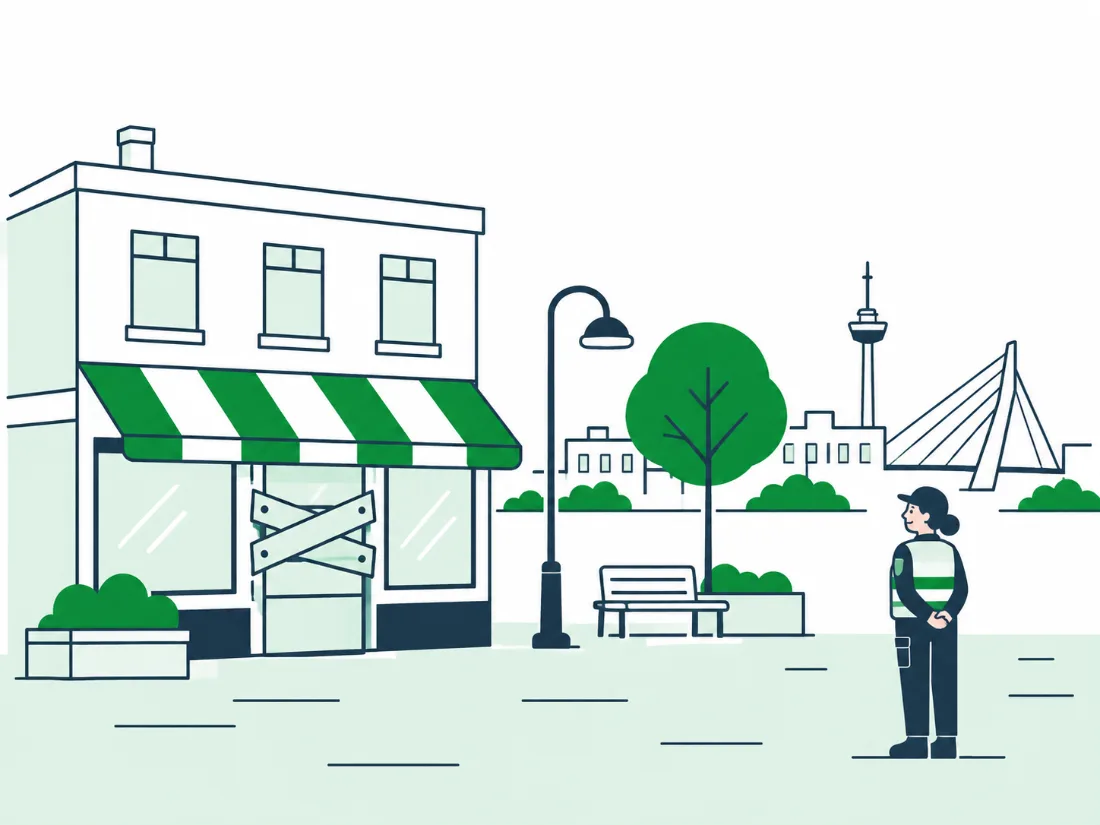
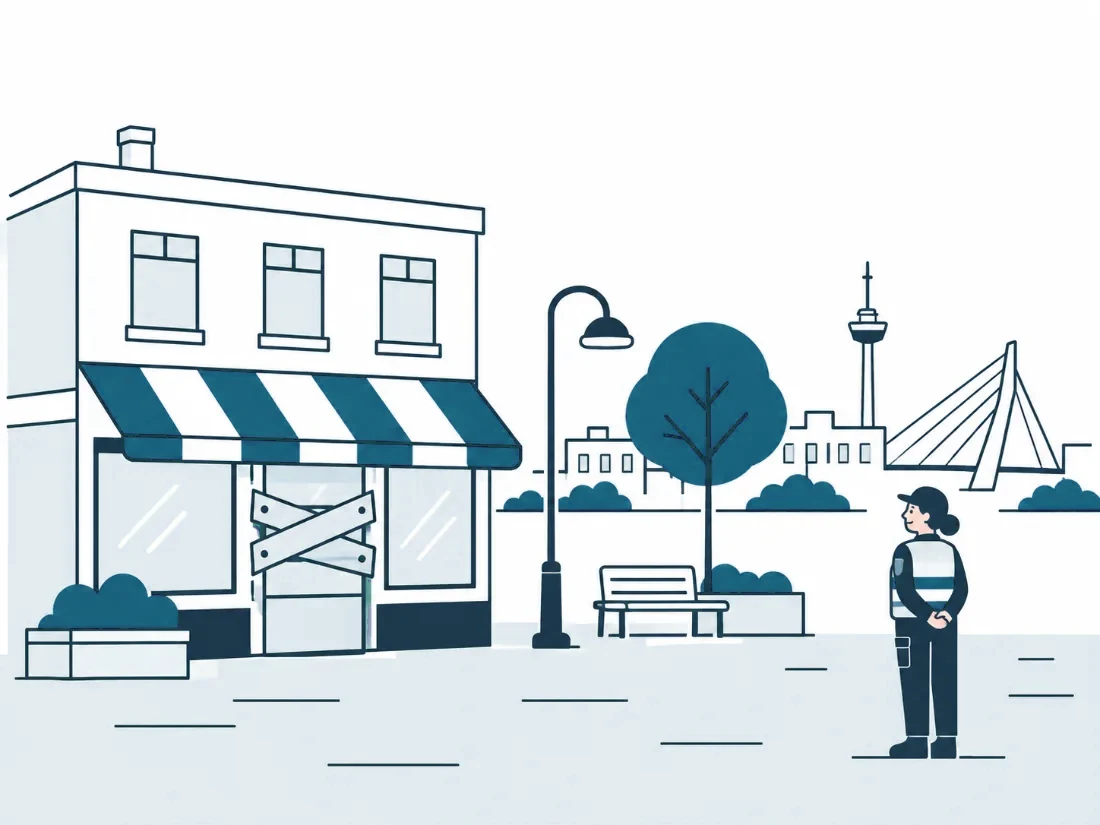
Huisstijl structureel: afbeeldingen herkleurd, groen-check (CI), herkleurscript, docs/huisstijl.md
Claude-Session: https://claude.ai/code/session_01HMaSQJ7cuYXUFEH6484HrS

diff --git a/site/index.html b/site/index.html
@@ -924,7 +924,7 @@ async function domStart(){try{const r=await fetch("data/domeinen/index.json");if
   document.title="Rechtsloods "+DT.naam+" — Loodst je door de rechtspraak, in gewone taal";const du=$("#dek-u");if(du)du.textContent=DT.uitspraken}
  const k=$("#domknop");k.onclick=e=>{e.stopPropagation();const m=$("#dommenu");if(m.hidden){domMenu();m.hidden=false;k.setAttribute("aria-expanded","true");const f=m.querySelector("button");f&&f.focus()}else domSluit()};
  document.addEventListener("click",e=>{if(!e.target.closest(".domkies"))domSluit()});document.addEventListener("keydown",e=>{if(e.key==="Escape"&&!$("#dommenu").hidden){domSluit();k.focus()}})}
-const KLEUR={parkeerbelasting:"#0F5C63",parkeerverbod:"#1C5A9E",vergunningen:"#A84A00",parkeernormen:"#6B4FA0","garages-privaat":"#5A7D2A","handhaving-privacy":"#8A6D1E"};
+const KLEUR={parkeerbelasting:"#0F5C63",parkeerverbod:"#1C5A9E",vergunningen:"#A84A00",parkeernormen:"#6B4FA0","garages-privaat":"#A23B72","handhaving-privacy":"#8A6D1E"};
 const LIJN={"hr-lijn":["l-hr","Vaste lijn: Hoge Raad of Raad van State"],"vaste-lijn":["l-vast","Vaste lijn: hoven en rechtbanken"],"losse-uitspraken":["l-los","Losse uitspraken"],"verdeeld":["l-verdeeld","Verdeeld"],"weinig":["l-weinig","Weinig rechtspraak"]};
 const WW={kosten2019:["Vóór kostenregel 1 juli 2019","Op 1 juli 2019 is de maatstaf voor de naheffingskosten verruimd. Oordelen over kosten van vóór die datum kunnen achterhaald zijn.","ECLI:NL:GHDHA:2025:225"],omgevingswet2024:["Vóór Omgevingswet 2024","Sinds 1 januari 2024 geldt de Omgevingswet: bestemmingsplannen zijn omgevingsplannen geworden. Toets of de redenering nog past."]};
 const BEGRIPPEN=[
@@ -1951,7 +1951,7 @@ domStart().then(()=>Promise.all(["meta.json","verrijkt.json","tekstindex.json","
  {let t;new MutationObserver(()=>{clearTimeout(t);t=setTimeout(()=>{wlWeg();wlMarkeer($("#view"))},40)}).observe($("#view"),{childList:true})}
  {const v=$("#view");new MutationObserver(()=>{if(LAB_VIEWS.test(document.body.dataset.view)&&v.firstElementChild&&v.firstElementChild.id!=="labregel"){v.insertAdjacentHTML("afterbegin",labRegel());v.querySelector("#labregel .linkknop").onclick=()=>go("over-contact")}}).observe(v,{childList:true})}
  if(false)try{const t=await fetch("data/_v3_voorbeeld.json");if(t.ok){(await t.json()).forEach(x=>{if(x&&x.ecli)V3TEST[x.ecli]=x})}}catch(x){}
- S.tax={};Object.entries(tax).forEach(([k,t])=>{S.tax[k]={label:t.label,rechtsgang:t.rechtsgang,uitleg:t.uitleg,concept:t.concept,sub:Object.fromEntries(Object.entries(t.sub||{}).map(([sk,sv])=>[sk,typeof sv==="string"?sv:(sv&&sv.label)||sk]))};if(t.kleur)KLEUR[k]=t.kleur;else if(!KLEUR[k])KLEUR[k]=["#0F5C63","#1C5A9E","#A84A00","#6B4FA0","#5A7D2A","#8A6D1E"][Object.keys(S.tax).length%6]});
+ S.tax={};Object.entries(tax).forEach(([k,t])=>{S.tax[k]={label:t.label,rechtsgang:t.rechtsgang,uitleg:t.uitleg,concept:t.concept,sub:Object.fromEntries(Object.entries(t.sub||{}).map(([sk,sv])=>[sk,typeof sv==="string"?sv:(sv&&sv.label)||sk]))};if(t.kleur)KLEUR[k]=t.kleur;else if(!KLEUR[k])KLEUR[k]=["#0F5C63","#1C5A9E","#A84A00","#6B4FA0","#A23B72","#8A6D1E"][Object.keys(S.tax).length%6]});
  S.arg=arg||{};S.stand=stand||{};S.lijnen=lijnen||{};S.reg=reg||{x:[],v:{}};S.tekstIdx=ti;
  const fout=new Set(verr.filter(v=>!v.relevant).map(v=>v.ecli));
  S.meta=meta.filter(m=>!fout.has(m.e));S.meta.forEach(m=>S.byE[m.e]=m);

diff --git a/tools/herkleur_afbeeldingen.py b/tools/herkleur_afbeeldingen.py
@@ -1,0 +1,32 @@
+#!/usr/bin/env python3 -I
+"""Zet groen in illustraties om naar het huisstijl-petrol. Idempotent: al-petrol pixels blijven staan.
+Gebruik: python3 -I tools/herkleur_afbeeldingen.py site/assets/*.webp   (schrijft in place)
+Oranje, blauw en donkerblauw (inkt) blijven ongemoeid; alleen tinten tussen 80 en 170 graden verschuiven."""
+import sys, numpy as np
+from PIL import Image
+VAN_LO, VAN_HI, SHIFT, SAT = 80.0, 170.0, 54.0, 0.78   # #00811F (130 graden) -> #0F5C63 (184 graden)
+def herkleur(im):
+    a = np.asarray(im.convert("RGBA")).astype(np.float32) / 255
+    r, g, b, al = a[..., 0], a[..., 1], a[..., 2], a[..., 3]
+    mx, mn = a[..., :3].max(-1), a[..., :3].min(-1); d = mx - mn
+    l = (mx + mn) / 2
+    s = np.where(d == 0, 0, d / (1 - np.abs(2 * l - 1) + 1e-9))
+    h = np.zeros_like(mx)
+    m = d > 0
+    rm = m & (mx == r); gm = m & (mx == g) & ~rm; bm = m & ~rm & ~gm
+    h[rm] = ((g - b)[rm] / d[rm]) % 6; h[gm] = (b - r)[gm] / d[gm] + 2; h[bm] = (r - g)[bm] / d[bm] + 4
+    h *= 60
+    sel = (h >= VAN_LO) & (h <= VAN_HI) & (s > 0.04)
+    h = np.where(sel, h + SHIFT, h); s = np.where(sel, s * SAT, s)
+    c = (1 - np.abs(2 * l - 1)) * s; hp = (h / 60) % 6; x = c * (1 - np.abs(hp % 2 - 1)); mm = l - c / 2
+    z = np.zeros_like(c); k = np.floor(hp).astype(int)
+    rgb = np.select([(k == i)[..., None] for i in range(6)],
+                    [np.stack(t, -1) for t in ((c, x, z), (x, c, z), (z, c, x), (z, x, c), (x, z, c), (c, z, x))])
+    out = np.concatenate([np.clip((rgb + mm[..., None]) * 255 + .5, 0, 255), (al * 255)[..., None]], -1).astype(np.uint8)
+    return Image.fromarray(out, "RGBA")
+if __name__ == "__main__":
+    for p in sys.argv[1:]:
+        im = Image.open(p); fmt = im.format; o = herkleur(im)
+        if fmt == "JPEG": o = o.convert("RGB")
+        o.save(p, fmt, **({"quality": 88, "method": 6} if fmt == "WEBP" else {"quality": 92} if fmt == "JPEG" else {}))
+        print("herkleurd:", p)

diff --git a/tools/check_huisstijl.py b/tools/check_huisstijl.py
@@ -1,0 +1,30 @@
+#!/usr/bin/env python3 -I
+"""Huisstijl-bewaker: faalt als er groen (tint 80-170 graden) in code of afbeeldingen van site/ staat.
+Gebruik: python3 -I tools/check_huisstijl.py   (draait ook in GitHub Actions bij elke push)"""
+import re, sys, colorsys
+from pathlib import Path
+SITE = Path(__file__).resolve().parent.parent / "site"
+TOEGESTAAN_GROEN = set()   # bewust groen, bv. voor 'gewonnen/toegewezen'-status: voeg hex toe in hoofdletters
+def is_groen(hexw):
+    r, g, b = (int(hexw[i:i+2], 16) / 255 for i in (0, 2, 4))
+    h, l, s = colorsys.rgb_to_hls(r, g, b)
+    return s > 0.08 and 80 <= h * 360 <= 170
+fouten = []
+for p in SITE.rglob("*"):
+    if p.suffix in {".html", ".css", ".js", ".svg", ".txt"} or (p.suffix == ".json" and "domeinen/index" in str(p)):
+        t = p.read_text(encoding="utf8", errors="ignore")
+        for m in set(re.findall(r"#([0-9a-fA-F]{6})\b", t)):
+            if is_groen(m) and m.upper() not in TOEGESTAAN_GROEN: fouten.append(f"{p.relative_to(SITE.parent)}: #{m.upper()}")
+try:
+    from PIL import Image
+    for p in list((SITE / "assets").glob("*")) + list((SITE / "video").glob("*.jpg")):
+        if p.suffix.lower() not in {".webp", ".jpg", ".png"}: continue
+        im = Image.open(p).convert("RGB").resize((96, 96)); px = list(im.getdata()); n = 0; tot = 0
+        for r, g, b in px:
+            h, l, s = colorsys.rgb_to_hls(r/255, g/255, b/255)
+            if .12 < l < .9 and s > .15:
+                tot += 1; n += 80 <= h * 360 <= 170
+        if tot and n / tot > 0.15: fouten.append(f"{p.relative_to(SITE.parent)}: {round(100*n/tot)}% van de gekleurde pixels is groen (draai tools/herkleur_afbeeldingen.py)")
+except ImportError: print("Pillow ontbreekt: afbeeldingscheck overgeslagen")
+if fouten: print("Groen gevonden (huisstijl is petrol #0F5C63):\n  " + "\n  ".join(sorted(fouten))); sys.exit(1)
+print("Huisstijl OK: geen groen in code of afbeeldingen.")

diff --git a/docs/huisstijl.md b/docs/huisstijl.md
@@ -1,0 +1,28 @@
+# Huisstijl Rechtsloods
+
+Neutraal, landelijk, geen gemeentekleuren. Eén bron van waarheid voor kleur en beeld.
+
+## Palet
+| Rol | Hex |
+|---|---|
+| Hoofdkleur (petrol) | `#0F5C63` |
+| Donker (hover, links) | `#0A3F44` |
+| Lichte vlakken | `#F5F7F7`, `#E2E6E6`, `#C7CFD0` |
+| Tekst | `#1B1B1B`, secundair `#5B6061` |
+| Accent (waarschuwing/oranje) | `#A84A00` |
+| Inkt in illustraties | donkerblauw `#1F2F44` |
+
+Groen is niet toegestaan, behalve bewust vastgelegd in `TOEGESTAAN_GROEN` in `tools/check_huisstijl.py`.
+
+## Waar kleur staat
+- `site/index.html`: CSS-variabelen bovenin (`--groen` is historisch de naam, de waarde is petrol).
+- `site/data/domeinen/index.json`: kleur per rechtsgebied (categorisch, nooit groen).
+- `site/logo/*.svg`, favicons, `site/assets/*.webp`, `site/video/*-poster-*.jpg`.
+
+## Structureel: drie vangnetten
+1. `python3 -I tools/check_huisstijl.py` faalt op groen in code en afbeeldingen. Draait in GitHub Actions bij elke push (`.github/workflows/huisstijl.yml`).
+2. `python3 -I tools/herkleur_afbeeldingen.py <bestanden>` zet groen in nieuwe ChatGPT-illustraties om naar petrol. Altijd draaien na het toevoegen van een afbeelding.
+3. Werk alleen in deze repo. Een snapshot uit een andere (privé) werkrepo overschrijft de kleuren anders weer.
+
+## Afbeeldingen (ChatGPT-prompt)
+Platte vectorillustratie, dunne donkerblauwe contourlijnen, vlakken in petrol `#0F5C63` en zeer licht grijsblauw `#E2E6E6`, één oranje accent `#A84A00`, witte achtergrond, 4:3, geen tekst, geen groen. Generiek Nederlands straatbeeld of kantoor, geen herkenbare Rotterdamse bouwwerken (landelijke uitstraling). Per rechtsgebied één beeld: bestandsnaam `site/assets/dom-<slug>.webp` (1100x825).
